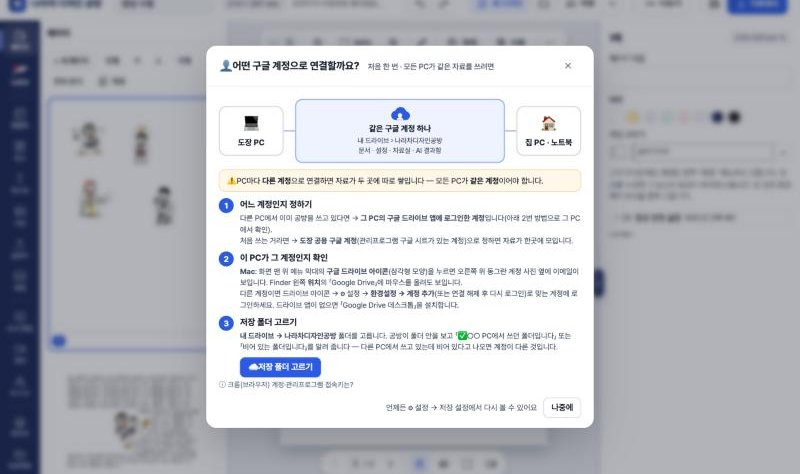
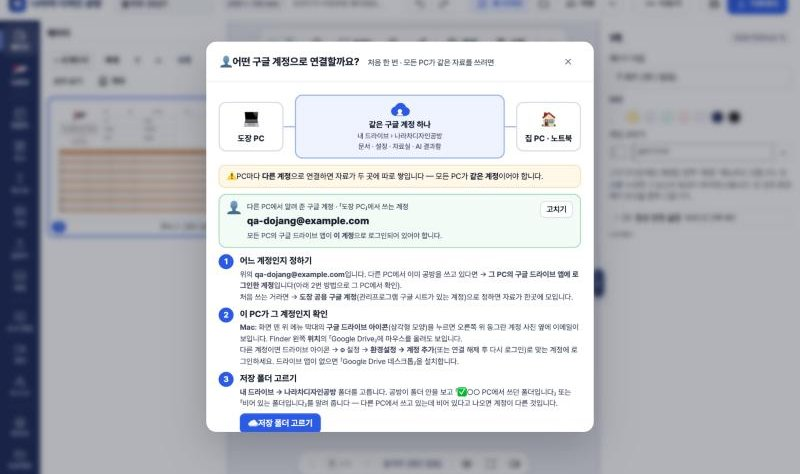
우리 공방 구글 계정 보이기(한 번 적어 두면 모든 PC 안내·저장 설정에), 다른 PC에 알려 주기 링크, 매뉴얼·작업인계 (20261124.1338)

diff --git a/app.js b/app.js
@@ -4115,6 +4115,29 @@ async function openSaveDialog() {
 /* 처음 연결 안내 (팀장님 11/24 「처음 여는 PC에서 어떤 구글 계정으로 연결해야 할지 가이드」)
    공방 자료는 구글 드라이브 폴더 하나에 모임 → PC마다 같은 계정이어야 함. 브라우저는 계정 이메일을 알 수 없으므로
    ① 어느 계정인지 정하는 법 ② 이 PC의 드라이브 앱 계정 확인하는 법 ③ 폴더를 고르면 다른 PC에서 쓰던 폴더인지 공방이 확인(connectFolderChecked) */
+/* 공방 구글 계정 (팀장님 11/24 「내가 어떤 구글로 세팅했는지 안 보여 — 다른 컴은 어떤 계정으로 로그인돼 있는지도 알려 줘야」)
+   브라우저는 드라이브 앱 계정을 읽을 수 없으므로 한 번 적어 둠 → 동기화 폴더 설정(SYNC_KEYS 'naracal-acct')으로 모든 PC에 같아짐.
+   아직 폴더를 연결하지 않은 새 PC에는 「다른 PC에 알려 주기」 링크(#acct= — 주소 뒤 # 부분이라 서버로 가지 않음)로 넘김 */
+function acctGet() { try { const o = JSON.parse(localStorage.getItem('naracal-acct') || 'null'); return o && o.email ? o : null; } catch (e) { return null; } }
+function acctSet(email, by) { email = String(email || '').trim(); try { if (!email) localStorage.removeItem('naracal-acct'); else localStorage.setItem('naracal-acct', JSON.stringify({ email, by: by || store.pcName() || '', at: Date.now() })); } catch (e) {} if (store.state.dir) store.pushSettings().catch(() => {}); }
+const acctOk = v => /^[^\s@]+@[^\s@]+\.[^\s@]+$/.test(String(v || '').trim());
+function acctLink() { const a = acctGet(); if (!a) return ''; const b = btoa(unescape(encodeURIComponent(JSON.stringify({ e: a.email, b: a.by || '' })))).replace(/=+$/, ''); return location.origin + location.pathname + '#acct=' + b; }
+function acctFromHash() { const m = /#acct=([A-Za-z0-9+/_-]+)/.exec(location.hash || ''); if (!m) return false; try { const o = JSON.parse(decodeURIComponent(escape(atob(m[1].replace(/-/g, '+').replace(/_/g, '/'))))); if (o && acctOk(o.e)) { try { localStorage.setItem('naracal-acct', JSON.stringify({ email: o.e, by: o.b || '', at: Date.now(), via: 'link' })); } catch (e) {} } } catch (e) {} try { history.replaceState(null, '', location.pathname + location.search); } catch (e) {} return true; }
+async function acctCopyLink() { const u = acctLink(); if (!u) { toast('먼저 구글 계정을 적어 주세요', true); return; } try { await navigator.clipboard.writeText(u); toast('링크를 복사했습니다 — 새 PC에서 카톡·메일로 받아 열면 이 계정이 안내에 보입니다'); } catch (e) { window.prompt('이 링크를 새 PC에서 여세요', u); } }
+/* 계정 칸 (안내 창·저장 설정 공통) */
+function acctBox(ctx) {
+  const a = acctGet(), ready = !!store.state.dir;
+  if (a) return `<div class="acctbox ok"><i>👤</i><div><small>${a.via === 'link' ? '다른 PC에서 알려 준' : '우리 공방'} 구글 계정${a.by ? ` · 「${esc(a.by)}」${a.via === 'link' ? '에서 쓰는 계정' : '에서 적음'}` : ''}</small><b class="acctmail">${esc(a.email)}</b><small>모든 PC의 구글 드라이브 앱이 <b>이 계정</b>으로 로그인되어 있어야 합니다.</small></div><div class="acctbtns"><button class="btn sm" data-acct="edit">고치기</button>${ready ? '<button class="btn sm" data-acct="link">🔗 다른 PC에 알려 주기</button>' : ''}</div></div>`;
+  return `<div class="acctbox"><i>👤</i><div><small>우리 공방 구글 계정 ${ready ? '— 이 PC가 연결한 드라이브 앱 계정을 적어 두세요' : '— 다른 PC에서 쓰는 계정을 알면 적어 두세요'}</small><div class="acctin"><input type="email" id="acctIn${ctx}" placeholder="예: dojang@gmail.com" autocomplete="off"><button class="btn sm primary" data-acct="save">적어 두기</button></div><small>${ready ? '적어 두면 다른 PC의 공방 안내에도 「이 계정으로 연결하세요」라고 보입니다(구글 드라이브 폴더 설정으로 같아짐).' : '모르면: 이미 쓰는 PC에서 공방 → ⚙ 설정 → 저장 설정을 열면 계정이 보이고, 「🔗 다른 PC에 알려 주기」 링크를 이 PC에서 열면 여기에 저절로 들어옵니다.'}</small></div></div>`;
+}
+function acctBind(root, ctx, after) {
+  root.querySelectorAll('[data-acct]').forEach(b => b.onclick = async () => {
+    const k = b.dataset.acct;
+    if (k === 'save') { const v = (root.querySelector('#acctIn' + ctx) || {}).value; if (!acctOk(v)) { toast('구글 계정 이메일을 넣어 주세요 (예: dojang@gmail.com)', true); return; } acctSet(v); toast('구글 계정을 적어 두었습니다 — 다른 PC 안내에도 보입니다'); after(); }
+    else if (k === 'edit') { const a = acctGet(); const v = window.prompt('우리 공방 구글 계정 (비우면 지움)', a ? a.email : ''); if (v == null) return; if (v.trim() && !acctOk(v)) { toast('이메일 모양이 아닙니다', true); return; } acctSet(v); after(); }
+    else if (k === 'link') await acctCopyLink();
+  });
+}
 function openAcctGuide(first) {
   try { localStorage.setItem('naracal-acct-guide', String(Date.now())); } catch (e) {}
   let d = $('#dlgAcct'); if (!d) { d = document.createElement('dialog'); d.id = 'dlgAcct'; d.className = 'acctdlg'; document.body.appendChild(d); }
@@ -4126,8 +4149,9 @@ function openAcctGuide(first) {
   <div class="dbody">
     <div class="acctpic"><div class="ap-pc"><i>💻</i><b>도장 PC</b></div><span class="ap-ln"></span><div class="ap-cl"><svg width="34" height="24" viewBox="0 0 34 24" aria-hidden="true"><path d="M9 22h17a7 7 0 0 0 .8-13.95A9 9 0 0 0 9.6 7.2 7.5 7.5 0 0 0 9 22z" fill="#2f5bea"/><circle cx="17" cy="14.5" r="3.4" fill="#fff"/><path d="M11.6 21.5a5.6 5.6 0 0 1 10.8 0z" fill="#fff"/></svg><b>같은 구글 계정 하나</b><small>내 드라이브 › 나라차디자인공방<br>문서 · 설정 · 자료실 · AI 결과함</small></div><span class="ap-ln"></span><div class="ap-pc"><i>🏠</i><b>집 PC · 노트북</b></div></div>
     <p class="acctwarn">⚠ PC마다 <b>다른 계정</b>으로 연결하면 자료가 두 곳에 따로 쌓입니다 — 모든 PC가 <b>같은 계정</b>이어야 합니다.</p>
+    <div id="acctSlotG">${acctBox('G')}</div>
     <ol class="svsteps">
-      <li><span>1</span><div><b>어느 계정인지 정하기</b><small>다른 PC에서 이미 공방을 쓰고 있다면 → <b>그 PC의 구글 드라이브 앱에 로그인한 계정</b>입니다(아래 2번 방법으로 그 PC에서 확인).<br>처음 쓰는 거라면 → <b>도장 공용 구글 계정</b>(관리프로그램 구글 시트가 있는 계정)으로 정하면 자료가 한곳에 모입니다.</small></div></li>
+      <li><span>1</span><div><b>어느 계정인지 정하기</b><small>${acctGet() ? `위의 <b>${esc(acctGet().email)}</b>입니다. ` : ''}다른 PC에서 이미 공방을 쓰고 있다면 → <b>그 PC의 구글 드라이브 앱에 로그인한 계정</b>입니다(아래 2번 방법으로 그 PC에서 확인).<br>처음 쓰는 거라면 → <b>도장 공용 구글 계정</b>(관리프로그램 구글 시트가 있는 계정)으로 정하면 자료가 한곳에 모입니다.</small></div></li>
       <li><span>2</span><div><b>이 PC가 그 계정인지 확인</b><small>${how}<br>다른 계정이면 드라이브 아이콘 → ⚙ 설정 → <b>환경설정 → 계정 추가</b>(또는 연결 해제 후 다시 로그인)로 맞는 계정에 로그인하세요. 드라이브 앱이 없으면 「Google Drive 데스크톱」을 설치합니다.</small></div></li>
       <li><span>3</span><div><b>저장 폴더 고르기</b><small><b>내 드라이브 → 나라차디자인공방</b> 폴더를 고릅니다. 공방이 폴더 안을 보고 「✅ ○○ PC에서 쓰던 폴더입니다」 또는 「비어 있는 폴더입니다」를 알려 줍니다 — 다른 PC에서 쓰고 있는데 비어 있다고 나오면 계정이 다른 것입니다.</small><button class="btn primary" data-ac="dir">☁ 저장 폴더 고르기</button></div></li>
     </ol>
@@ -4135,6 +4159,7 @@ function openAcctGuide(first) {
     <div class="acctfoot">${first ? '<span class="hint" style="margin:0">언제든 ⚙ 설정 → 저장 설정에서 다시 볼 수 있어요</span>' : ''}<button class="btn" data-close>${first ? '나중에' : '닫기'}</button></div>
   </div>`;
   d.querySelectorAll('[data-close]').forEach(b => b.onclick = () => d.close());
+  const reAcct = () => { const sl = d.querySelector('#acctSlotG'); if (sl) { sl.innerHTML = acctBox('G'); acctBind(sl, 'G', reAcct); } }; reAcct();
   d.querySelector('[data-ac="dir"]').onclick = async () => { try { const ok = await connectFolderChecked(); if (ok) d.close(); } catch (e) { if (e.name !== 'AbortError') toast(e.message, true); } };
   if (!d.open) d.showModal();
 }
@@ -4152,9 +4177,11 @@ async function connectFolderChecked() {
   }
   await afterFolderReady(); updateSaveBadge();
   const when = t => { try { return new Date(t).toLocaleString('ko-KR', { month: 'numeric', day: 'numeric', hour: '2-digit', minute: '2-digit' }); } catch (e) { return ''; } };
-  if (c.set && c.set.by && c.set.by !== store.pcName()) toast(`✅ 「${c.set.by}」에서 쓰던 폴더입니다 (${when(c.set.at)} 저장) — 같은 구글 계정이 맞습니다`);
+  const ac = acctGet(), acs = ac ? ` · 계정 ${ac.email}` : '';
+  if (c.set && c.set.by && c.set.by !== store.pcName()) toast(`✅ 「${c.set.by}」에서 쓰던 폴더입니다 (${when(c.set.at)} 저장${acs}) — 같은 구글 계정이 맞습니다`);
   else if (has(c)) toast(`✅ 공방 자료가 있는 폴더입니다 (문서 ${c.docs}개${c.folders ? ` · 폴더 ${c.folders}개` : ''}) — 문서와 설정이 이 폴더로 같아집니다`);
   else toast('새 저장 폴더로 시작합니다 — 다른 PC도 같은 구글 계정으로 이 폴더를 고르세요');
+  if (!ac) setTimeout(() => { openSaveDialog().then(() => { const i = $('#acctInS'); if (i) { i.focus(); i.closest('.acctbox').classList.add('ask'); } }).catch(() => {}); }, 400);  /* 계정을 아직 안 적었으면 저장 설정의 계정 칸을 열어 둠 */
   return true;
 }
 async function renderSaveDialog() {
@@ -4168,7 +4195,7 @@ async function renderSaveDialog() {
   const fileOK = !!st.handle && (!ready || curIn), oc = b => b ? 'ok' : 'no';
   const flow = `<div class="svflow">
     <div class="svstep ok"><i>💻</i><b>이 브라우저</b><small>늘 자동으로 임시 보관</small><em>✔ 켜짐</em></div><span class="svarr">→</span>
-    <div class="svstep ${oc(ready)}"><i>☁</i><b>구글 드라이브 폴더</b><small>${ready ? esc(st.dirName || '동기화 폴더') : st.dir ? '연결했지만 이 창에서 허락이 필요' : '아직 연결 안 함'}</small><em>${ready ? '✔ 연결됨' : '○ 아직'}</em></div><span class="svarr">→</span>
+    <div class="svstep ${oc(ready)}"><i>☁</i><b>구글 드라이브 폴더</b><small>${ready ? esc(st.dirName || '동기화 폴더') : st.dir ? '연결했지만 이 창에서 허락이 필요' : '아직 연결 안 함'}${acctGet() ? `<br>👤 ${esc(acctGet().email)}` : ''}</small><em>${ready ? '✔ 연결됨' : '○ 아직'}</em></div><span class="svarr">→</span>
     <div class="svstep ${oc(fileOK)}"><i>📄</i><b>지금 문서</b><small>${st.handle ? esc(String(st.fileName || '').replace(/\.design\.json$/i, '')) + (ready ? (curIn ? ' · 폴더 안' : ' · 폴더 밖') : '') : '파일로는 아직 안 저장'}</small><em>${fileOK ? '✔ 파일에 자동 저장' : '○ 브라우저에만'}</em></div></div>`;
   let todo;
   if (!st.dirSupported && !ready) todo = `<div class="svtodo warn"><b>⚠ 이 브라우저는 폴더 연결을 못 합니다</b><p>Chrome이나 Edge에서 열면 구글 드라이브 폴더에 저장할 수 있어요. 지금은 「사본 내려받기」로 보관하세요.</p></div>`;
@@ -4182,7 +4209,7 @@ async function renderSaveDialog() {
   else todo = `<div class="svtodo done"><b>✅ 저장 설정이 모두 되어 있습니다</b><p>고칠 때는 아래 「내 저장 설정」에서 바꾸세요. 문서는 고칠 때마다 저절로 폴더에 저장됩니다.</p></div>`;
   const row = (ic, t, val, ctl) => `<div class="svrow"><i>${ic}</i><span><b>${t}</b><small>${val}</small></span><div class="svctl">${ctl}</div></div>`;
   const swc = (id, on) => `<input type="checkbox" class="sw" id="${id}" ${on ? 'checked' : ''}>`;
-  const mine = `<h3 class="svh">⚙ 내 저장 설정 <small>지금 값 · 바꾸기</small></h3><div class="svlist">
+  const mine = `<h3 class="svh">👤 우리 공방 구글 계정 <small>모든 PC가 같은 계정</small></h3><div id="acctSlotS">${acctBox('S')}</div><h3 class="svh">⚙ 내 저장 설정 <small>지금 값 · 바꾸기</small></h3><div class="svlist">
     ${row('☁', '저장 폴더 (구글 드라이브)', ready ? `<code>${esc(st.dirName || '')}</code> — 두 PC가 이 폴더로 같아짐` : st.dir ? `${esc(st.dirName || '')} (허락 필요)` : '연결 안 함 — 이 브라우저에만 저장', ready ? `<button class="btn sm" data-sv="dir">바꾸기</button><button class="btn sm danger" data-sv="discdir">연결 끊기</button>` : st.dir ? `<button class="btn sm primary" data-sv="redir">허락</button>` : `<button class="btn sm primary" data-sv="dir" ${st.dirSupported ? '' : 'disabled'}>연결</button>`)}
     ${row('🏷', '이 PC 이름', '두 PC에서 함께 쓸 때·버전 기록에 표시', `<input type="text" id="svPcName" value="${esc(store.pcName())}" maxlength="20" placeholder="예: 도장 PC">`)}
     ${row('📄', '지금 문서', st.handle ? `${esc(String(st.fileName || ''))}${ready ? (curIn ? ' — 폴더 안 (자동 저장)' : ' — 폴더 밖 파일') : ' — 파일에 자동 저장'}` : '파일 없이 브라우저에만', `<button class="btn sm" data-sv="now" ${st.handle ? '' : 'disabled'}>지금 저장</button>${ready ? (curIn ? '' : '<button class="btn sm primary" data-sv="intodir">폴더에 저장</button>') : `<button class="btn sm" data-sv="connect" ${st.supported ? '' : 'disabled'}>${st.handle ? '다른 파일로' : '파일 하나 연결'}</button>`}${st.handle && !ready ? '<button class="btn sm danger" data-sv="disc">연결 해제</button>' : ''}`)}
@@ -4209,6 +4236,7 @@ async function renderSaveDialog() {
   $('#saveBody').onclick = async e => { const b = e.target.closest('[data-sv]'); if (b && act[b.dataset.sv]) { await run(act[b.dataset.sv]); return; }
     const li = e.target.closest('[data-doc]'); if (li) { const x = docs[Number(li.dataset.doc)]; if (st.handle && x.name === st.fileName && curIn) { d.close(); return; } try { await openFolderDoc(x.handle); d.close(); } catch (err) { toast('열 수 없습니다: ' + err.message, true); } } };
   { const k1 = $('#svKind'), k2 = $('#svExp'); if (k1) k1.onchange = () => { setPref('naracal-kind-folders', k1.checked); toast(k1.checked ? '저장할 때 종류 폴더를 미리 골라 둡니다' : '저장할 때 마지막에 쓴 폴더를 골라 둡니다'); renderSaveDialog(); }; if (k2) k2.onchange = () => { setPref('naracal-export-copy', k2.checked); toast(k2.checked ? '내려받은 파일도 내 드라이브 종류 폴더에 저장합니다' : '내려받은 파일은 다운로드 폴더에만 저장합니다'); renderSaveDialog(); }; }
+  { const sl = $('#acctSlotS'); if (sl) acctBind(sl, 'S', () => renderSaveDialog()); }
   const pn = $('#svPcName'); if (pn) pn.onchange = () => { store.setPcName(pn.value); pn.value = store.pcName(); toast('이 PC 이름을 저장했습니다'); };
   NC.live.bindSettings(d, () => { if (d.open) renderSaveDialog(); });
 }
@@ -5541,12 +5569,16 @@ function pptRuns(e) {
     const block = /^(DIV|P|LI|H[1-6])$/.test(tag); if (block) brk(); n.childNodes.forEach(c => walk(c, o)); if (block) brk(); };
   root.childNodes.forEach(c => walk(c, base)); if (runs.length) runs[runs.length - 1].options.breakLine = false; return runs.length ? runs : [{ text: '', options: base }];
 }
-function pptTextOpts(e) { const PT = 72 / 25.4, o = { x: e.x / 25.4, y: e.y / 25.4, w: Math.max(0.1, e.w / 25.4), h: Math.max(0.1, e.h / 25.4), align: ['left', 'center', 'right', 'justify'].includes(e.align) ? e.align : 'left', valign: e.valign === 'middle' ? 'middle' : e.valign === 'bottom' ? 'bottom' : 'top', margin: Math.max(0, (Number(e.pad) || 0) * PT), lineSpacingMultiple: Number(e.lh) || 1.3, wrap: true, fit: 'none', objectName: e.name || '글' };
+function pptTextOpts(e) { const PT = 72 / 25.4, o = { x: e.x / 25.4, y: e.y / 25.4, w: Math.max(0.1, e.w / 25.4), h: Math.max(0.1, e.h / 25.4), align: ['left', 'center', 'right', 'justify'].includes(e.align) ? e.align : 'left', valign: e.valign === 'middle' ? 'middle' : e.valign === 'bottom' ? 'bottom' : 'top', margin: Math.max(0, (Number(e.pad) || 0) * PT), lineSpacing: Math.round((Number(e.lh) || 1.3) * (Number(e.size) || 14) * 10) / 10, wrap: true, fit: 'none', objectName: e.name || '글' };
   if (e.rot) o.rotate = Number(e.rot); if (e.ls) o.charSpacing = Math.round(Number(e.ls) * (Number(e.size) || 14) * 10) / 10; if (e.opacity != null && e.opacity < 1) o.transparency = Math.round((1 - e.opacity) * 100);
   const bg = hex6(e.bg); if (bg) o.fill = { color: bg }; if (Number(e.strokeW) > 0) o.outline = { size: Math.max(0.25, e.strokeW * PT), color: hex6(e.strokeC) || 'FFFFFF' };
   if (e.shadow) { const dx = Number(e.shX) || 0, dy = Number(e.shY) || 0; o.shadow = { type: 'outer', color: hex6(e.shC) || '000000', opacity: Math.min(1, Number(e.shA) || 0.25), blur: Math.max(0, (Number(e.shB) || 0) * PT), offset: Math.hypot(dx, dy) * PT, angle: Math.round(((Math.atan2(dy, dx) * 180 / Math.PI) + 360) % 360) }; }
   return o; }
 /* 공방 글꼴은 대부분 웹 글꼴이라 다른 PC의 PowerPoint에 없음 → 기본은 어느 PC(Windows·Mac Office)에나 있는 맑은 고딕(명조 계열은 바탕)으로 */
+/* 줄 간격은 정확한 pt로(11/24 실제 PowerPoint 점검): 배수(115%)로 주면 PowerPoint가 글꼴 기본 줄 높이(맑은 고딕 1.33배)에 또 곱해 줄 사이가 30% 벌어지고 글이 상자를 넘침.
+   CSS line-height처럼 「줄 간격 × 그 줄에서 가장 큰 글자」로, 한 줄(문단)마다. 한국어 표시(ko-KR) — en-US면 글자마다 맞춤법 빨간 줄 */
+function pptLineSp(runs, lh) { let line = []; const flush = () => { const mx = Math.max(...line.map(r => Number(r.options.fontSize) || 14)); line.forEach(r => { r.options.lineSpacing = Math.round(lh * mx * 10) / 10; }); line = []; };
+  runs.forEach(r => { r.options.lang = 'ko-KR'; line.push(r); if (r.options.breakLine) flush(); }); if (line.length) flush(); }
 const PPT_SERIF = /Myeongjo|Batang|MaruBuri|Serif|명조|바탕|Song|Gowun Batang|Hahmlet|Cinzel|Playfair/i;
 async function exportPPTX(pages, say, base, asImg, keepFonts) {
   await loadScript('https://cdn.jsdelivr.net/npm/pptxgenjs@3.12.0/dist/pptxgen.bundle.js', () => window.PptxGenJS, 'sha384-Cck14aA9cifjYolcnjebXRfWGkz5ltHMBiG4px/j8GS+xQcb7OhNQWZYyWjQ+UwQ');
@@ -5556,7 +5588,7 @@ async function exportPPTX(pages, say, base, asImg, keepFonts) {
     nKeep += asImg ? 0 : pg.els.filter(e => e.type === 'text' && !elHidden(e) && String(e.text || '').trim() && !set.has(e)).length;
     const c = await renderPageCanvas(tx.length ? Object.assign({}, pg, { els: pg.els.filter(e => !set.has(e)) }) : pg, dpi, 'thumb', '#ffffff'); const data = c.toDataURL('image/jpeg', 0.92); c.width = c.height = 0;
     const s = pptx.addSlide(); s.addImage({ data, x: 0, y: 0, w: iw, h: ih, altText: '바탕(도형·그림)' });
-    for (const e of tx) { const runs = pptRuns(e); runs.forEach(r => { if (!keepFonts) r.options.fontFace = PPT_SERIF.test(r.options.fontFace || '') ? 'Batang' : 'Malgun Gothic'; fonts.add(r.options.fontFace); }); s.addText(runs, pptTextOpts(e)); nText++; }
+    for (const e of tx) { const runs = pptRuns(e); pptLineSp(runs, Number(e.lh) || 1.3); runs.forEach(r => { if (!keepFonts) r.options.fontFace = PPT_SERIF.test(r.options.fontFace || '') ? 'Batang' : 'Malgun Gothic'; fonts.add(r.options.fontFace); }); s.addText(runs, pptTextOpts(e)); nText++; }
     if (pg.notes) s.addNotes(String(pg.notes)); }
   say('파일 만드는 중…'); const blob = await pptx.write({ outputType: 'blob' }); saveBlob(blob, `${base}.pptx`);
   toast(asImg ? `PowerPoint 파일로 저장했습니다 — ${pages.length}쪽 (쪽마다 그림 한 장)` : `PowerPoint 파일로 저장했습니다 — ${pages.length}쪽 · 고칠 수 있는 글 상자 ${nText}개${nKeep ? ` (특수 효과 글자 ${nKeep}개는 그림으로)` : ''} ${keepFonts ? ` · 글꼴(${[...fonts].slice(0, 4).join(', ')}${fonts.size > 4 ? ' …' : ''})이 그 PC에 없으면 다른 글꼴로 보여요` : ' · 글꼴은 맑은 고딕·바탕'}`);
@@ -8175,10 +8207,11 @@ function sameDoc(a, b) { return a && b && (a.docId && b.docId ? a.docId === b.do
   if (!loaded) { try { const saved0 = await store.idbGet('doc'), saved = await tabPick(saved0); if (saved) { await loadDoc(saved); loaded = true; setStatus(saved !== saved0 ? '이 탭에서 쓰던 문서를 불러왔습니다' : '브라우저 저장본을 불러왔습니다'); } } catch (e) {} }
   if (!loaded) { doc = newDoc(); doc.calendar.year = 2027; doc.name = '2027 인성 캘린더'; virtueTextFix(doc.calendar, 2027); virtueArtFix(doc.calendar, null, 2027); doc.pages = CAL.buildPages(doc, uid, { year: 2027, kind: 'full' }); ensureAllHolidays(); $('#pname').value = doc.name; hist = [snapshot()]; histMeta = [{ cur: 0, sel: [] }]; hptr = 0; renderAll(); setStatus('2027년 캘린더 초안을 만들었습니다. 공휴일은 자동으로 들어갔습니다.'); freshDraft = true; }
   // 동기화 폴더(구글 드라이브): 허락돼 있으면 바로 맞추고, 아니면 한 번 눌러 허락받기
-  const nlm0 = /[?&]nlimport=/.test(location.search);
+  const nlm0 = /[?&]nlimport=/.test(location.search), acctHash = acctFromHash();
   try {
     const pf = await store.reconnectFolder();
-    if (pf === 'none' && store.state.dirSupported && !nlm0 && (!/[?&]qa\b/.test(location.search) || /[?&]acct\b/.test(location.search))) { let seen = ''; try { seen = localStorage.getItem('naracal-acct-guide') || ''; } catch (e) {} if (!seen) setTimeout(() => openAcctGuide(true), 900); }
+    if (pf === 'none' && store.state.dirSupported && !nlm0 && (!/[?&]qa\b/.test(location.search) || /[?&]acct\b/.test(location.search))) { let seen = ''; try { seen = localStorage.getItem('naracal-acct-guide') || ''; } catch (e) {} if (!seen || acctHash) setTimeout(() => openAcctGuide(true), 900); }
+    else if (acctHash) setTimeout(() => openAcctGuide(false), 900);
     if (pf === 'granted') await afterFolderReady();
     else if (pf === 'prompt') {
       $('#status').innerHTML = `<button class="btn sm primary" id="reconnDir">동기화 폴더 "${esc(store.state.dirName)}" 연결 (눌러서 허락)</button>`;

diff --git a/manual.js b/manual.js
@@ -242,8 +242,8 @@ window.NC_MANUAL = [
       { t: '새 버전은 저절로 적용', d: '공방이 고쳐져 새 버전이 올라오면 1분 안에 알아채고, 위 막대에 <b>「새 버전 · 10초 뒤 새로 엶」</b>이 뜬 뒤 <b>작업을 저장하고 저절로 새로 엽니다</b>(보던 문서는 그대로). 바로 바꾸려면 그 단추를 누르세요. 저장·내려받기·출력 준비·영상 재생/녹화 중에는 끝날 때까지 기다리고, 대화창이 열려 있으면 최대 2분 기다립니다.' },
       { t: '두 PC에서 함께 쓰기', d: '⚙ 설정 → 저장·이 PC 맨 위의 <b>상태 줄</b>(💻 브라우저 → ☁ 드라이브 → 📄 지금 문서, ✔는 됨 · ○는 아직)을 누르면 저장 설정이 열립니다. <b>동기화 폴더</b>(구글 드라이브의 나라차디자인공방 폴더)를 연결하면 도장 PC와 집 PC에서 같은 문서·설정·자료실·<b>내 블록</b>(오른쪽 클릭 → 내 블록으로 저장한 요소 묶음)을 씁니다. 한 PC에서 블록을 만들거나 지우면 다른 PC에도 그대로 반영됩니다. 같은 문서를 두 PC에서 동시에 열면 서로 고치는 모습이 보입니다(실시간 — 상대가 끄는 요소는 그 PC 색의 점선 상자로 따라 움직이고, 같은 요소라도 서로 다른 속성(글·색 등)을 고치면 둘 다 남습니다). <b>이 PC 이름</b>을 적어 두면 누가 고쳤는지 알 수 있습니다. 다른 PC가 같은 문서를 열면 위 막대 오른쪽에 그 PC 이름이 뜨고, 혼자일 땐 작은 점 하나만 보입니다(초록 = 연결됨 · 회색 = 꺼짐·준비 중 · 문제가 생기면 「실시간 오류」 글자가 뜸, 누르면 실시간 설정).', img: 'm71-settings-save.jpg',
         marks: [[55, 34.8, '지금 저장 상태 줄'], [86, 34.8, '처음 설정 · 바꾸기'], [83, 42.7, '이 PC 이름'], [80.6, 50.5, '연결 상태'], [87.8, 50.5, '저장 설정 열기'], [87.8, 58.7, '버전 기록']], go: [['settings', '설정 열기']] },
-      { t: '처음 여는 PC — 어떤 구글 계정으로 연결할까요?', d: '공방의 문서·설정·자료실·AI 결과함은 <b>구글 드라이브 폴더 하나</b>(내 드라이브 › 나라차디자인공방)에 모입니다. 그래서 <b>모든 PC가 같은 구글 계정</b>으로 연결해야 합니다 — 다른 계정이면 자료가 두 곳에 따로 쌓여요. 새 PC에서 공방을 처음 열면 이 안내가 저절로 나옵니다(⚙ 설정 → 저장 설정 → 처음 설정 1번 「👤 어떤 계정으로?」에서도 열림). ① 다른 PC에서 이미 쓰고 있으면 <b>그 PC의 구글 드라이브 앱에 로그인한 계정</b>, 처음이면 도장 공용 계정 ② 이 PC의 드라이브 앱 계정 확인(Mac은 메뉴 막대의 드라이브 아이콘, Windows는 작업 표시줄 ^ 안) ③ <b>저장 폴더 고르기</b>. 폴더를 고르면 공방이 안을 보고 <b>「✅ 도장 PC에서 쓰던 폴더입니다 — 같은 구글 계정이 맞습니다」</b>라고 알려 주고, 비어 있으면 「계정이 다를 수 있어요」라고 묻습니다(「연결하지 않기」를 누르면 연결하지 않음). 「내 드라이브」를 통째로 골랐으면 안의 나라차디자인공방 폴더로 바로 연결할지 묻습니다.', img: 'm97-acct.jpg',
-        marks: [[50, 27.5, '모든 PC = 같은 구글 계정 하나'], [50, 38.5, '다른 계정이면 따로 쌓임'], [27, 43.5, '① 어느 계정인지'], [27, 54.5, '② 이 PC의 계정 확인'], [35, 77.4, '③ 저장 폴더 고르기 → 공방이 확인'], [70, 86, '나중에']], go: [['settings', '설정 열기']] },
+      { t: '처음 여는 PC — 어떤 구글 계정으로 연결할까요?', d: '공방의 문서·설정·자료실·AI 결과함은 <b>구글 드라이브 폴더 하나</b>(내 드라이브 › 나라차디자인공방)에 모입니다. 그래서 <b>모든 PC가 같은 구글 계정</b>으로 연결해야 합니다 — 다른 계정이면 자료가 두 곳에 따로 쌓여요. 안내 맨 위 <b>👤 우리 공방 구글 계정</b> 칸에 지금 쓰는 계정이 크게 보입니다 — 브라우저는 드라이브 앱의 계정을 스스로 읽지 못하므로, 처음 연결한 PC에서 <b>한 번 적어 두면</b>(폴더를 처음 연결하면 저장 설정의 계정 칸이 열림) 폴더 설정을 따라 모든 PC에 같이 보입니다. 아직 폴더를 연결하지 않은 새 PC에는, 쓰던 PC의 ⚙ 설정 → 저장 설정 → <b>「🔗 다른 PC에 알려 주기」</b>로 복사한 링크를 카톡·메일로 보내 새 PC에서 열면 그 계정이 안내에 들어옵니다. 새 PC에서 공방을 처음 열면 이 안내가 저절로 나옵니다(⚙ 설정 → 저장 설정 → 처음 설정 1번 「👤 어떤 계정으로?」에서도 열림). ① 다른 PC에서 이미 쓰고 있으면 <b>그 PC의 구글 드라이브 앱에 로그인한 계정</b>, 처음이면 도장 공용 계정 ② 이 PC의 드라이브 앱 계정 확인(Mac은 메뉴 막대의 드라이브 아이콘, Windows는 작업 표시줄 ^ 안) ③ <b>저장 폴더 고르기</b>. 폴더를 고르면 공방이 안을 보고 <b>「✅ 도장 PC에서 쓰던 폴더입니다 — 같은 구글 계정이 맞습니다」</b>라고 알려 주고, 비어 있으면 「계정이 다를 수 있어요」라고 묻습니다(「연결하지 않기」를 누르면 연결하지 않음). 「내 드라이브」를 통째로 골랐으면 안의 나라차디자인공방 폴더로 바로 연결할지 묻습니다.', img: 'm97-acct.jpg',
+        marks: [[50, 27, '모든 PC = 같은 구글 계정 하나'], [50, 37.5, '다른 계정이면 따로 쌓임'], [12, 46, '우리 공방 구글 계정 (적어 둔 계정)'], [12, 55, '① 어느 계정인지'], [12, 66.5, '② 이 PC의 계정 확인'], [35, 89.5, '③ 저장 폴더 고르기 → 공방이 확인']], go: [['settings', '설정 열기']] },
       { t: '저장 설정 — 처음 설정 3단계', d: '저장 설정 창 맨 위 <b>지금 저장 상태</b> 그림에서 세 칸을 봅니다 — 💻 <b>이 브라우저</b>(늘 자동 임시 보관), ☁ <b>구글 드라이브 폴더</b>(두 PC가 같아지는 곳), 📄 <b>지금 문서</b>(파일에 자동 저장되는지). 초록 ✔는 되어 있는 것, 점선 ○는 아직입니다. 그 아래 <b>다음에 할 일</b>이 한 가지만 나옵니다 — 처음이면 「처음 설정 3단계」: ① 각 PC에 구글 드라이브 데스크톱 앱 설치·로그인 ② <b>☁ 저장 폴더 고르기</b> → 내 드라이브 → 나라차디자인공방 ③ 이 PC 이름. 폴더를 연결했는데 지금 문서가 폴더 밖이면 「지금 문서를 폴더에 저장」, 모두 되어 있으면 「✅ 저장 설정이 모두 되어 있습니다」가 나옵니다.', img: 'm70-save-setup.jpg',
         marks: [[48.8, 32.5, '지금 저장 상태 (✔ 됨 · ○ 아직)'], [49.4, 44.7, '다음에 할 일 — 처음 설정 3단계'], [22, 64.7, '저장 폴더 고르기']], go: [['settings', '설정 열기']] },
       { t: '내 저장 설정 — 지금 값 보고 바꾸기', d: '아래 <b>내 저장 설정</b>은 줄마다 <b>지금 어떻게 되어 있는지</b>와 <b>바꾸는 단추</b>가 함께 있습니다. ☁ 저장 폴더(연결·바꾸기·연결 끊기 — 끊어도 폴더 안 파일은 그대로), 🏷 이 PC 이름, 📄 지금 문서(지금 저장·폴더에 저장·파일 하나 연결), 🗂 새 문서 저장 위치(종류 폴더를 미리 골라 둠), 📤 내려받은 파일 사본, 💾 사본 내려받기, 📂 다른 곳의 문서 열기. 두 PC에서 같은 문서를 <b>동시에</b> 고치는 「🔗 실시간 같이 편집」은 고급이라 접혀 있습니다(안 써도 저장에는 문제없음). 다 보고 닫으면 설정의 같은 칸으로 돌아옵니다.', img: 'm72-save-mine.jpg',

diff --git a/index.html b/index.html
@@ -16,7 +16,7 @@
 <meta property="og:image" content="https://narachadata.github.io/design/og.png">
 <meta property="og:type" content="website">
 <link rel="stylesheet" href="fonts/fonts.css?v=20261120.1357">
-<link rel="stylesheet" href="app.css?v=20261124.1325">
+<link rel="stylesheet" href="app.css?v=20261124.1338">
 </head>
 <body>
 <svg width="0" height="0" style="position:absolute" aria-hidden="true"><defs>
@@ -214,37 +214,37 @@
 <style id="pageStyle"></style>
 <div class="toast" id="toast" popover="manual" hidden></div>
 
-<script src="version.js?v=20261124.1325"></script>
-<script src="fonts/fonts.js?v=20261124.1325"></script>
-<script src="fonts/webfonts.js?v=20261124.1325"></script>
-<script src="assets.js?v=20261124.1325"></script>
-<script src="assets-brand.js?v=20261124.1325"></script>
-<script src="defaults.js?v=20261124.1325"></script>
-<script src="ai.js?v=20261124.1325"></script>
-<script src="storage.js?v=20261124.1325"></script>
-<script src="live.js?v=20261124.1325"></script>
-<script src="lib.js?v=20261124.1325"></script>
-<script src="calendar.js?v=20261124.1325"></script>
-<script src="templates.js?v=20261124.1325"></script>
-<script src="templates2.js?v=20261124.1325"></script>
-<script src="templates3.js?v=20261124.1325"></script>
-<script src="templates4.js?v=20261124.1325"></script>
-<script src="templates5.js?v=20261124.1325"></script>
-<script src="templates6.js?v=20261124.1325"></script>
-<script src="templates7.js?v=20261124.1325"></script>
-<script src="effects.js?v=20261124.1325"></script>
-<script src="imgedit.js?v=20261124.1325"></script>
-<script src="elements.js?v=20261124.1325"></script>
-<script src="news.js?v=20261124.1325"></script>
-<script src="astream.js?v=20261124.1325"></script>
-<script src="media.js?v=20261124.1325"></script>
-<script src="vtemplates.js?v=20261124.1325"></script>
-<script src="video.js?v=20261124.1325"></script>
-<script src="manual.js?v=20261124.1325"></script>
-<script src="aichat.js?v=20261124.1325"></script>
-<script src="aistudio.js?v=20261124.1325"></script>
-<script src="book.js?v=20261124.1325"></script>
-<script src="import.js?v=20261124.1325"></script>
-<script src="app.js?v=20261124.1325"></script>
+<script src="version.js?v=20261124.1338"></script>
+<script src="fonts/fonts.js?v=20261124.1338"></script>
+<script src="fonts/webfonts.js?v=20261124.1338"></script>
+<script src="assets.js?v=20261124.1338"></script>
+<script src="assets-brand.js?v=20261124.1338"></script>
+<script src="defaults.js?v=20261124.1338"></script>
+<script src="ai.js?v=20261124.1338"></script>
+<script src="storage.js?v=20261124.1338"></script>
+<script src="live.js?v=20261124.1338"></script>
+<script src="lib.js?v=20261124.1338"></script>
+<script src="calendar.js?v=20261124.1338"></script>
+<script src="templates.js?v=20261124.1338"></script>
+<script src="templates2.js?v=20261124.1338"></script>
+<script src="templates3.js?v=20261124.1338"></script>
+<script src="templates4.js?v=20261124.1338"></script>
+<script src="templates5.js?v=20261124.1338"></script>
+<script src="templates6.js?v=20261124.1338"></script>
+<script src="templates7.js?v=20261124.1338"></script>
+<script src="effects.js?v=20261124.1338"></script>
+<script src="imgedit.js?v=20261124.1338"></script>
+<script src="elements.js?v=20261124.1338"></script>
+<script src="news.js?v=20261124.1338"></script>
+<script src="astream.js?v=20261124.1338"></script>
+<script src="media.js?v=20261124.1338"></script>
+<script src="vtemplates.js?v=20261124.1338"></script>
+<script src="video.js?v=20261124.1338"></script>
+<script src="manual.js?v=20261124.1338"></script>
+<script src="aichat.js?v=20261124.1338"></script>
+<script src="aistudio.js?v=20261124.1338"></script>
+<script src="book.js?v=20261124.1338"></script>
+<script src="import.js?v=20261124.1338"></script>
+<script src="app.js?v=20261124.1338"></script>
 </body>
 </html>

diff --git a/storage.js b/storage.js
@@ -157,7 +157,7 @@ NC.store = (function () {
   /* ---------- 동기화 폴더 (Google Drive 등): 설정값 + 모든 문서 ---------- */
   // 폴더 안: 설정.naracha.json(API 키·모델·최근 사용 목록) + *.design.json(문서들)
   const SET_FILE = '설정.naracha.json';
-  const SYNC_KEYS = ['naracal-live', 'naracal-ai-v1', 'naracal-studio-presets', 'naracal-brand-colors', 'naracal-recent-colors', 'naracal-recent-fonts', 'naracal-recent-elems', 'naracal-recent-tpls', 'naracal-recent-formats', 'naracal-rules-saved', 'naracal-dojang', 'naracal-cert-serial'];
+  const SYNC_KEYS = ['naracal-live', 'naracal-ai-v1', 'naracal-studio-presets', 'naracal-brand-colors', 'naracal-recent-colors', 'naracal-recent-fonts', 'naracal-recent-elems', 'naracal-recent-tpls', 'naracal-recent-formats', 'naracal-rules-saved', 'naracal-dojang', 'naracal-cert-serial', 'naracal-acct'];
   Object.assign(state, { dir: null, dirName: '', dirSupported: !!window.showDirectoryPicker, setMod: 0, setBase: {} });
   async function connectFolder() {
     if (!state.dirSupported) throw new Error('이 브라우저는 폴더 연결을 지원하지 않습니다 (Chrome, Edge 권장).');

diff --git a/app.css b/app.css
@@ -2122,3 +2122,8 @@ body.zooming #textBar,body.zooming .ovl .h,body.zooming .ovl .rotline{opacity:0}
 .acctdlg .svsteps small code{font-size:11.5px}
 .acctfoot{display:flex;align-items:center;justify-content:flex-end;gap:10px;margin-top:12px}
 @media (max-width:640px){.acctpic{flex-direction:column}.acctpic .ap-pc{flex:none;width:100%}.acctpic .ap-ln{width:2px;height:12px;flex:none}}
+.acctbox{display:flex;gap:10px;align-items:flex-start;border:1.5px dashed #c9d6fb;border-radius:12px;padding:10px 12px;margin:0 0 10px;background:#fff}
+.acctbox>i{font-style:normal;font-size:22px;line-height:1}.acctbox>div:first-of-type{flex:1;min-width:0;display:flex;flex-direction:column;gap:3px}
+.acctbox small{font-size:11.5px;color:#4a5368;line-height:1.5}.acctbox .acctmail{font-size:16px;font-weight:800;color:#1b2130;overflow-wrap:anywhere}
+.acctbox.ok{border-style:solid;border-color:#9fd8b4;background:#f3fbf6}.acctbox.ask{border-color:#2f5bea;box-shadow:0 0 0 3px rgba(47,91,234,.14)}
+.acctin{display:flex;gap:6px}.acctin input{flex:1;min-width:0}.acctbtns{display:flex;flex-direction:column;gap:5px;flex:none}

diff --git a/version.js b/version.js
@@ -1,1 +1,1 @@
-window.NARACAL_VER = "20261124.1325";
+window.NARACAL_VER = "20261124.1338";

diff --git a/작업인계.md b/작업인계.md
@@ -1720,6 +1720,20 @@
 - 매뉴얼: 저장·두 PC에 「처음 여는 PC — 어떤 구글 계정으로 연결할까요?」(m97-acct.jpg), 소식지 「자료 불러오기」 접속키 설명.
 - **팀장님 확인**: 집 PC 등 새 PC에서 공방을 열어 안내 창 → 폴더 고르기 → 「✅ ○○에서 쓰던 폴더」가 나오는지. 소식지 「내용 채우기」가 접속키 없이 바로 불러오는지(이 브라우저에서 관리프로그램에 로그인한 적이 있어야 함).
 
+## 2026-11-24 낮 (31) — PowerPoint 내보내기 실제 점검 · 줄 간격 고침 (팀장님 확인 항목 「실제 PowerPoint에서 열어 보기」를 Claude가 먼저)
+- 시험: 승급심사 안내(빨강)+한지 전통 세트 16쪽 → .pptx 1.19MB, 슬라이드 16·메모 16·글 상자 82개, 글꼴 맑은 고딕 81·바탕 18(latin·ea·cs 모두). 이 Mac의 Microsoft PowerPoint로 열림(복구 묻지 않음). 맑은 고딕(PowerPoint 안 `DFonts/malgun.ttf`)을 브라우저에 불러 82개 상자 줄 바꿈을 재 보니 공방 글꼴과 줄 수가 모두 같음.
+- **고친 것 ① 줄 간격**: 예전엔 `lineSpacingMultiple`(115% 같은 배수) → PowerPoint는 글꼴 기본 줄 높이(맑은 고딕 hhea 1.33em)에 또 곱해 줄 사이가 약 30% 벌어지고, 82개 중 53개가 상자보다 길어짐(제목이 아래로 밀림). → `pptLineSp`: 한 줄(문단)마다 「줄 간격 × 그 줄에서 가장 큰 글자 pt」를 정확한 pt(`spcPts`)로 — CSS line-height와 같은 계산. `pptTextOpts`도 `lineSpacing`(pt).
+- **고친 것 ②**: 글 조각 언어 `ko-KR`(altLang en-US) — 예전 en-US면 PowerPoint에서 한글마다 맞춤법 빨간 줄.
+- 시험 방법 메모: 공방 CSP(connect-src)가 localhost 다른 포트로 보내기를 막아, 스크래치 폴더의 작은 서버(index.html의 CSP 메타만 빼고 같은 파일 제공·POST로 파일 받기)로 내보낸 파일을 받음. PowerPoint의 PDF 저장(AppleScript)은 맥 파일 권한 때문에 막힘 → 화면 비교는 팀장님 확인.
+
+## 2026-11-24 오후 (2) — 우리 공방 구글 계정 보이기 (팀장님 "어떤 구글로 세팅했는지 안 보여 — 다른 컴은 어떤 계정으로 로그인돼 있는지도 알려 줘야")
+- 브라우저는 구글 드라이브 앱 계정(이메일)을 읽을 수 없음 → **한 번 적어 둠**: `acctGet/acctSet`(localStorage `naracal-acct` {email, by, at, via}) — storage.js SYNC_KEYS에 넣어 **동기화 폴더 설정으로 모든 PC에 같아짐**.
+- 보이는 곳: 처음 계정 안내 맨 위 `acctBox` 「👤 우리 공방 구글 계정」(크게, 「도장 PC」에서 적음/쓰는 계정) · 1번 「위의 ○○입니다」 · 저장 설정 「👤 우리 공방 구글 계정」 칸 + 지금 저장 상태의 구글 드라이브 칸 아래 · 폴더 연결 확인 토스트에 「· 계정 ○○」.
+- 폴더를 처음 연결했는데 계정을 안 적었으면 저장 설정을 열어 계정 칸을 파랗게 표시(적어 두기).
+- **새 PC(폴더 연결 전)** 에 넘기기: 저장 설정 「🔗 다른 PC에 알려 주기」 = 링크 복사 `#acct=`(base64 {e,b} — # 뒤라 서버로 안 감, GitHub에 안 남음) → 새 PC에서 열면 `acctFromHash`가 저장하고 주소에서 지운 뒤 안내 창을 엶. 공개 코드에는 계정을 넣지 않음.
+- 시험(QA, 가짜 계정 qa-dojang@example.com): 적어 두기 → 초록 칸 · 링크로 열기 → 「다른 PC에서 알려 준 구글 계정 · 「도장 PC」에서 쓰는 계정」 · 저장 설정 칸. 매뉴얼 m97 그림·글 다시.
+- **팀장님 할 일**: 도장 PC(이미 연결된 PC)에서 ⚙ 설정 → 저장 설정 → 👤 칸에 그 PC 드라이브 앱 계정을 한 번 적기 — 그 뒤로 모든 PC 안내에 보임.
+
 # ▶ 다음에 이어 하기 (2026-11-20 낮 작업 종료 — 팀장님은 도장 PC에서 이어 하심)
 1. `git pull` → 이 문서를 읽고 팀장님께 한글로 브리핑 → 아래 남은 일부터.
 2. 오늘(11/20) 한 일 요약: 홍익 삽화 12장·표지·상징 · 휴관 카드 「라차 그림」 13종·승급심사 라차 그림 · 모든 라차 그림 가슴 로고 · 유급자 깃(바깥 빨강·안쪽 검정) 칠하기 · 도복 프롬프트 원칙(문서 3개·AI 스튜디오·메모리) · **2027 PC·휴대폰 배경화면 캘린더** · 2027 문서 덕목 차례 자동 맞춤 · 그림 캐시 버전 · 도구 막대 세로/접기 · Gemini 503 재시도.
